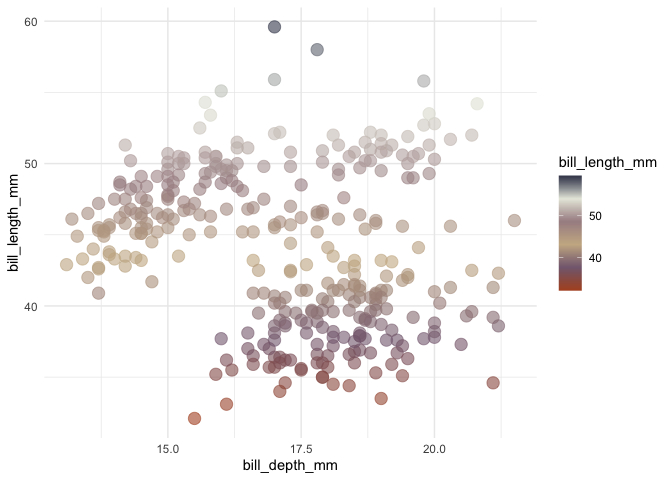
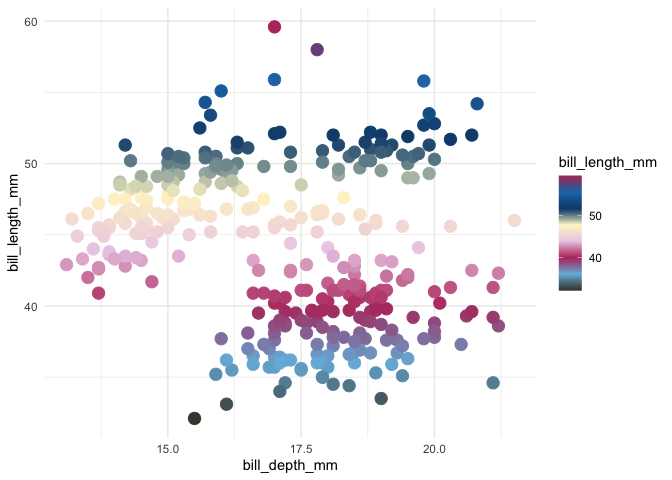
updated README

diff --git a/README.md b/README.md
@@ -6,7 +6,8 @@
 <!-- badges: start -->
 <!-- badges: end -->
 
-A ggplot2 color palette based on Taylor Swift Album Covers.
+A ggplot2 color palette based on Taylor Swift Album Covers. Palettes for
+every album except for those that Taylor Swift has disavowed.
 
 ## Installation
 
@@ -16,9 +17,10 @@ You can install the released version of tayloRswift with:
 remotes::install_github("tayloRswift")
 ```
 
-## Swift up your graphs with Taylor Swift palettes.
+## Examples
 
-### Color by discrete variable using default palette based on `1989`
+Color by discrete variable using default palette based on
+[1989](https://en.wikipedia.org/wiki/1989_(Taylor_Swift_album))
 
 ``` r
 ggplot(penguins, aes(bill_depth_mm, bill_length_mm, color = species)) +
@@ -31,7 +33,8 @@ ggplot(penguins, aes(bill_depth_mm, bill_length_mm, color = species)) +
 
 ### Choose a different palette
 
-Reputation works great as a grayscale.
+[Reputation](https://en.wikipedia.org/wiki/Reputation_(Taylor_Swift_album))
+works great as a grayscale.
 
 ``` r
 ggplot(penguins, aes(bill_depth_mm, bill_length_mm, color = species)) +
@@ -44,16 +47,21 @@ ggplot(penguins, aes(bill_depth_mm, bill_length_mm, color = species)) +
 
 ### Color by numeric variable
 
+Be content with a palette based on
+[Lover](https://en.wikipedia.org/wiki/Lover_(album))
+
 ``` r
 ggplot(penguins , aes(bill_depth_mm, bill_length_mm,color = bill_length_mm)) +
-  geom_point(size = 4, alpha = .6) +
-  scale_color_taylor(discrete = FALSE)+
+  geom_point(size = 4) +
+  scale_color_taylor(discrete = FALSE, palette ="lover")+
   theme_minimal()
 ```
 
 <img src="man/figures/README-color-numeric-1.png" width="100%" />
 
 ### Fill by discrete variable
+
+Pop with color from [Speak Now](https://en.wikipedia.org/wiki/Speak_Now)
 
 ``` r
 ggplot(penguins, aes(species, fill = species)) +
@@ -65,7 +73,8 @@ ggplot(penguins, aes(species, fill = species)) +
 
 <img src="man/figures/README-example-fill-1.png" width="100%" />
 
-If you prefer the live recording
+Or if you prefer the live recording of the [World
+Tour](https://en.wikipedia.org/wiki/Speak_Now_World_Tour_%E2%80%93_Live)
 
 ``` r
 ggplot(penguins, aes(species, fill = species)) +
